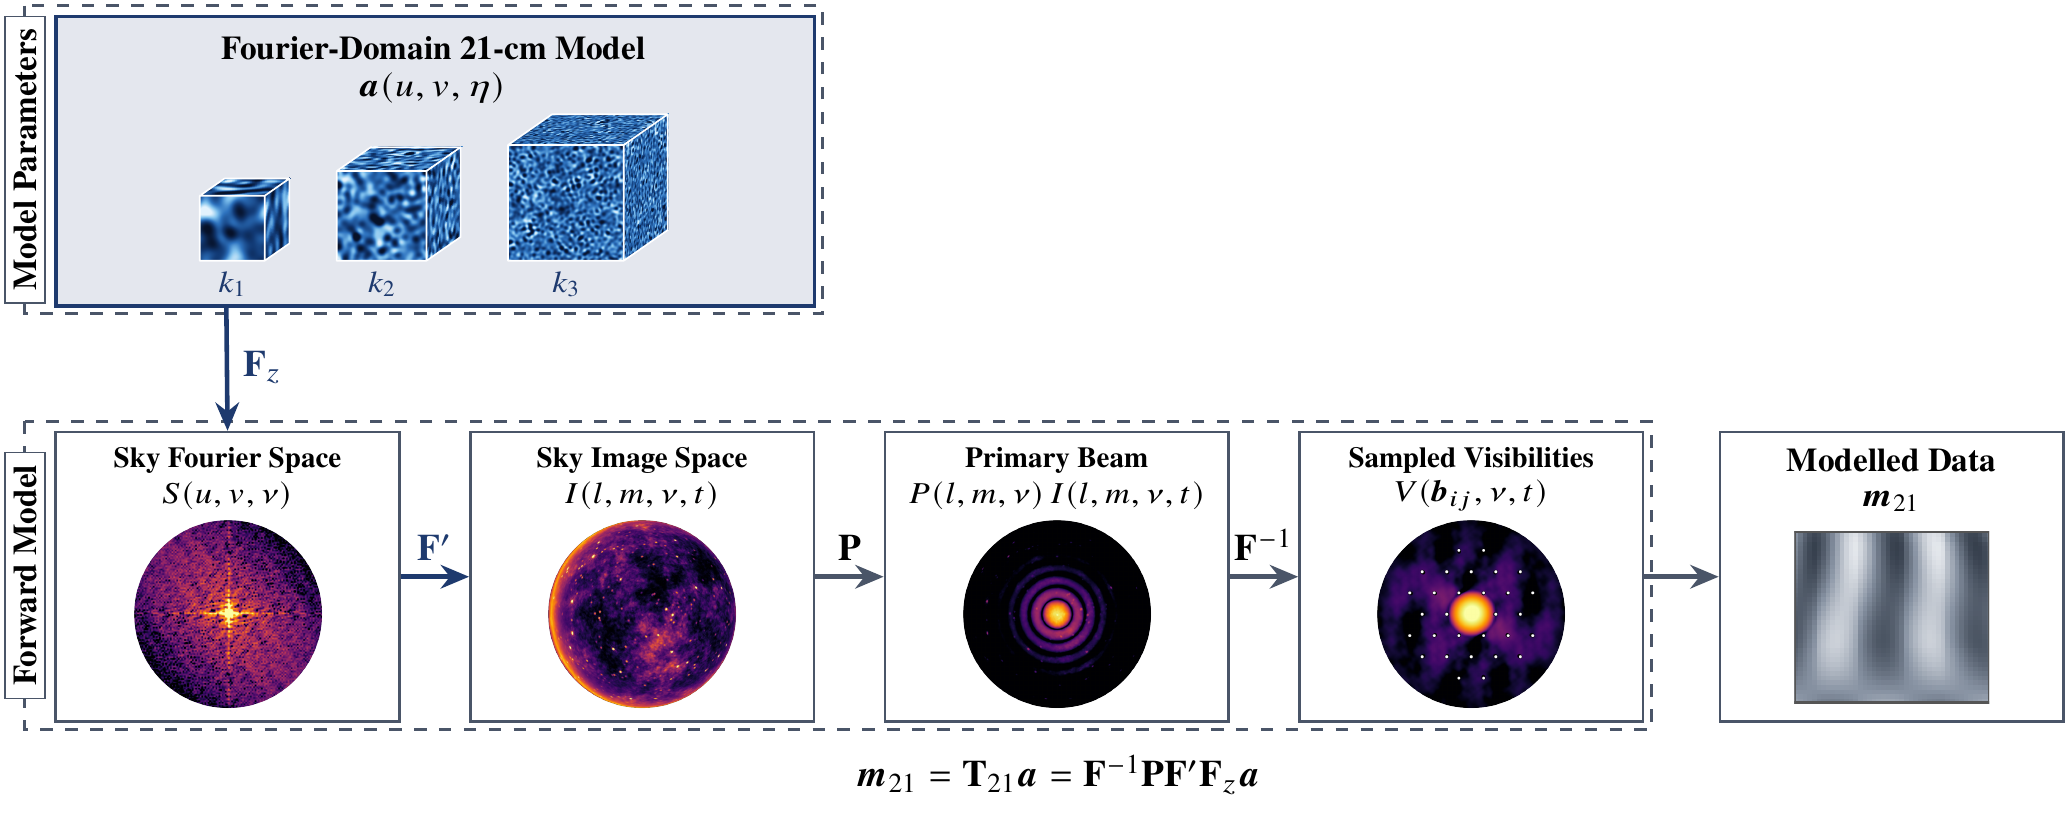
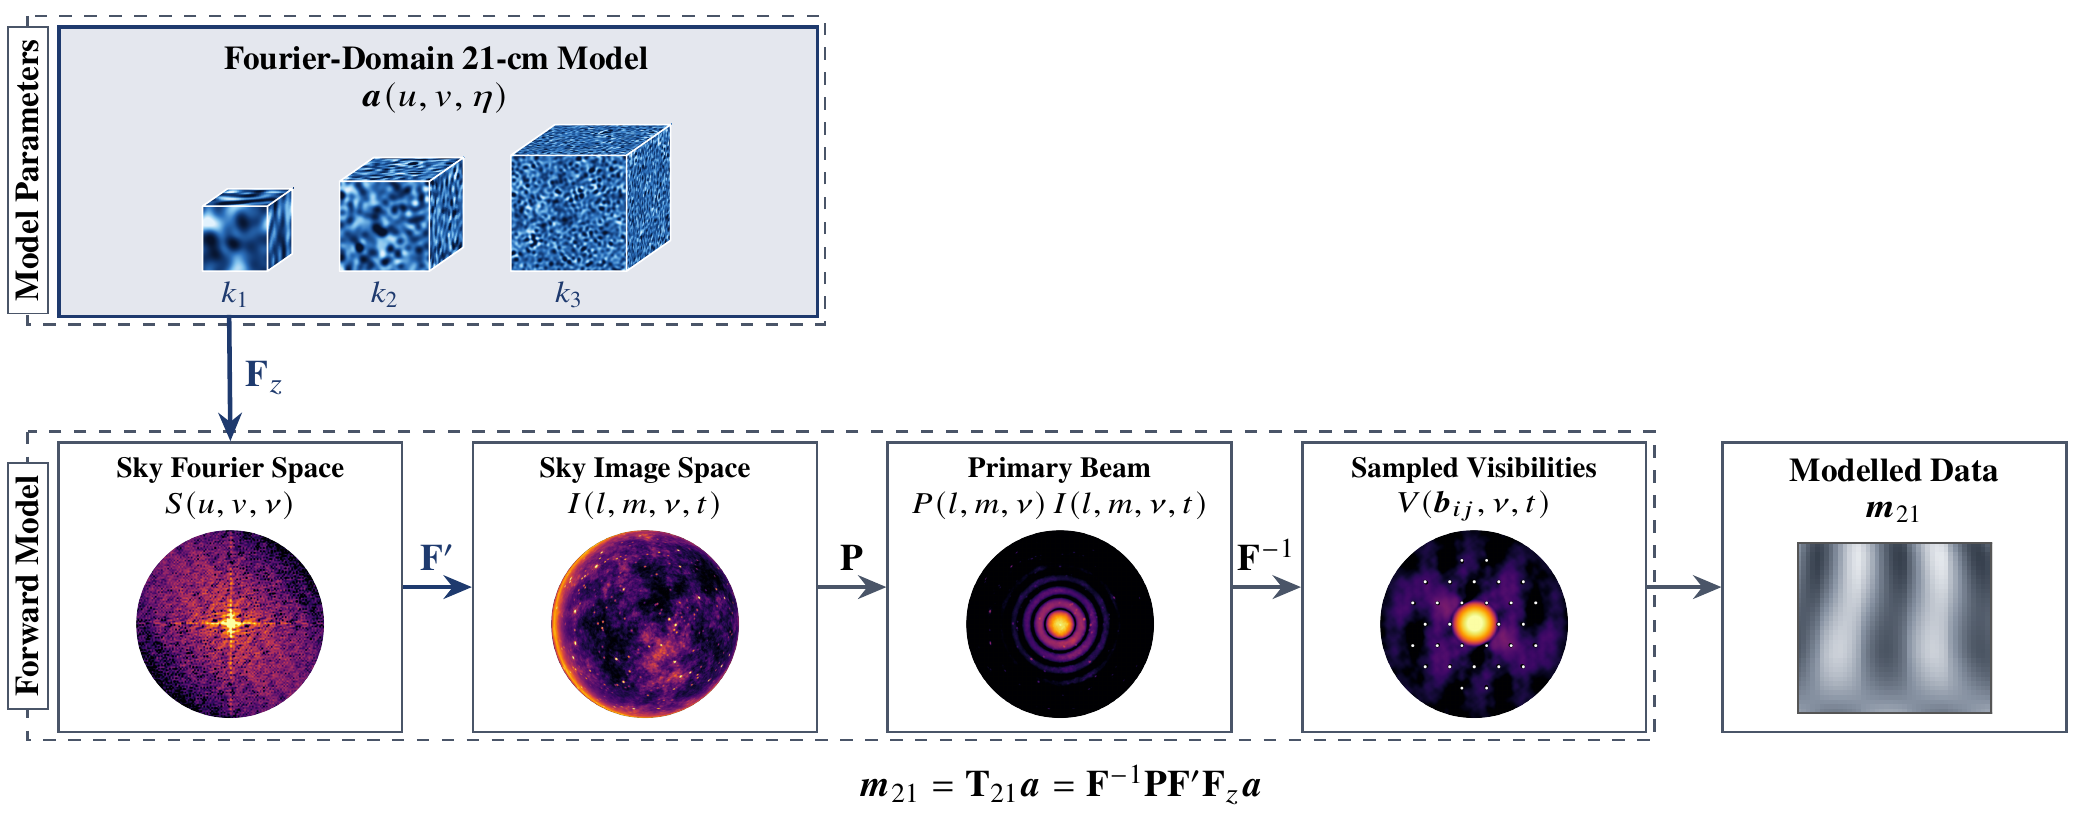
Align two-row workflow sizing and frame inference diagram

Changed region(s): [[0.0, 0.492, 1.0, 0.984], [0.0, 0.0, 0.4021, 0.3998], [0.0928, 0.4305, 0.1237, 0.4613]]

diff --git a/tools/docs_diagrams/inference_workflow.tex b/tools/docs_diagrams/inference_workflow.tex
@@ -1,6 +1,12 @@
 \input{style.tex}
 \begin{document}
 \begin{tikzpicture}[x=1cm,y=1cm]
+% Match the canvas and row spacing of the two-row model diagrams.
+\path[use as bounding box] (0,0.18) rectangle (17.65,-6.70);
+\begin{scope}[xshift=1.78cm]
+\draw[instc,dashed,line width=0.7pt] (0.2,0.08) rectangle (13.97,-6.05);
+\node[fill=panelbg,draw=instc,font=\footnotesize\bfseries,
+  inner xsep=3pt,inner ysep=2pt,rotate=90] at (0.2,-2.985) {Inference};
 
 % Top row: compare model and observation, then introduce the coefficient prior.
 \node[panel=infc,minimum width=6.42cm,minimum height=2.45cm] (data) at (0.45,0) {};
@@ -29,6 +35,7 @@
 \draw[flow] (like.east)--(prior.west);
 
 % Bottom row runs right to left, completing the inference workflow.
+\begin{scope}[yshift=-0.27cm]
 \node[stage] (marg) at (10.98,-3.25) {};
 \node[ttl,anchor=north] at (12.435,-3.37) {Marginalised\\Likelihood\ \mdseries\,$\mathcal L(\bm d\mid\bm\varphi)$};
 \node[thumb] at (12.435,-4.90) {\includegraphics{icon_marginal.pdf}};
@@ -48,6 +55,8 @@
 \node[font=\scriptsize,text=eorc,anchor=north] at (4.695,-5.33) {$\mathcal Z_{\rm21+FGs}$};
 \node[font=\scriptsize,text=fgc,anchor=north] at (5.835,-5.33) {$\mathcal Z_{\rm FG}$};
 \draw[flow] (ns.west)--(out.east);
+\end{scope}
+\end{scope}
 
 \end{tikzpicture}
 \end{document}

diff --git a/tools/docs_diagrams/component_workflow.tex b/tools/docs_diagrams/component_workflow.tex
@@ -15,6 +15,13 @@
   \end{scope}}
 \begin{document}
 \begin{tikzpicture}[x=1cm,y=1cm]
+% Keep every two-row workflow at the same displayed scale and height.
+\path[use as bounding box] (0,0.18) rectangle (17.65,-6.70);
+\ifdefined\ForegroundWorkflow
+  \begin{scope}[xshift=1.78cm]
+\else
+  \begin{scope}
+\fi
 \tikzset{grouplabel/.style={fill=panelbg, draw=instc,
   font=\footnotesize\bfseries, inner xsep=3pt, inner ysep=2pt, rotate=90}}
 
@@ -99,5 +106,6 @@
 \node[thumb] at ($(model.north)+(0,-1.58)$)
   {\includegraphics[trim=1.219cm 0 0 0,clip,width=1.65cm]{icon_likelihood.pdf}};
 \draw[flow] (vis.east) -- (model.west);
+\end{scope}
 \end{tikzpicture}
 \end{document}

diff --git a/tools/docs_diagrams/README.md b/tools/docs_diagrams/README.md
@@ -7,6 +7,8 @@ inference. The Modelled Data panel uses the right-hand, noiseless waterfall
 from `icon_likelihood.pdf`. `inference_workflow.tex` contains the two-row
 inference-only workflow, with modelled data and observation in a shared input
 panel. All diagrams share `style.tex` and the thumbnails in `plots/`.
+The two-row model and inference diagrams share a fixed canvas and row spacing
+so their panels and text remain the same size when displayed at the same width.
 
 The diagrams are schematic illustrations, not numerical outputs of a common
 model realisation. The cosmological cube thumbnails originate from supplied
